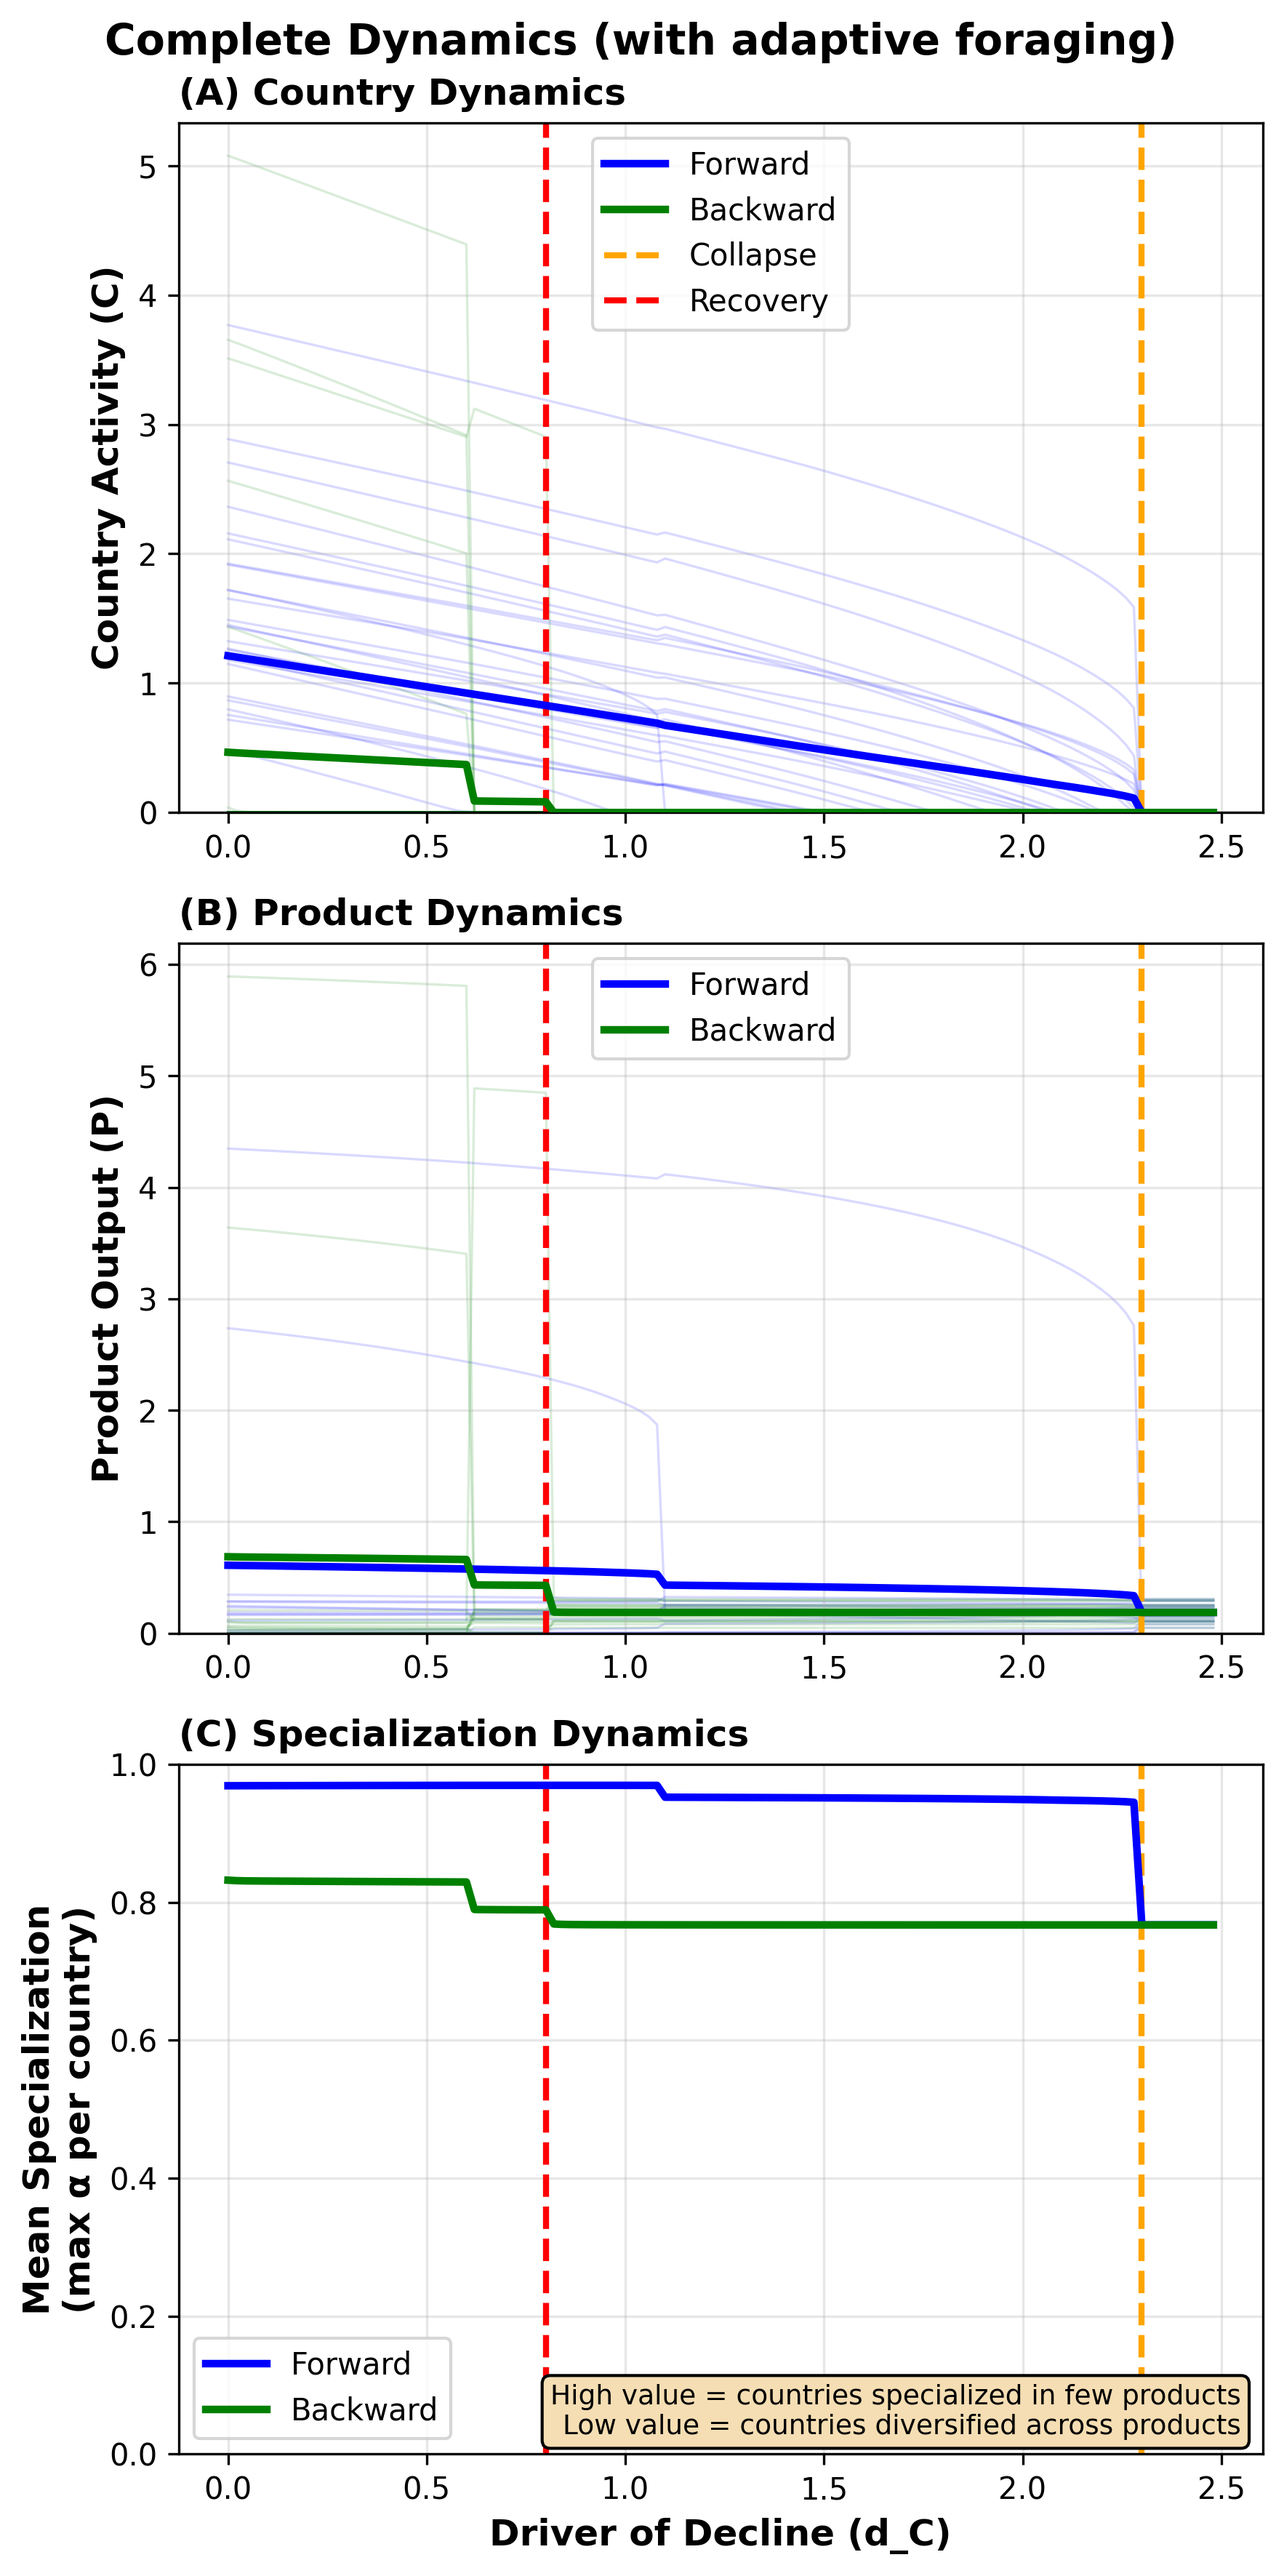
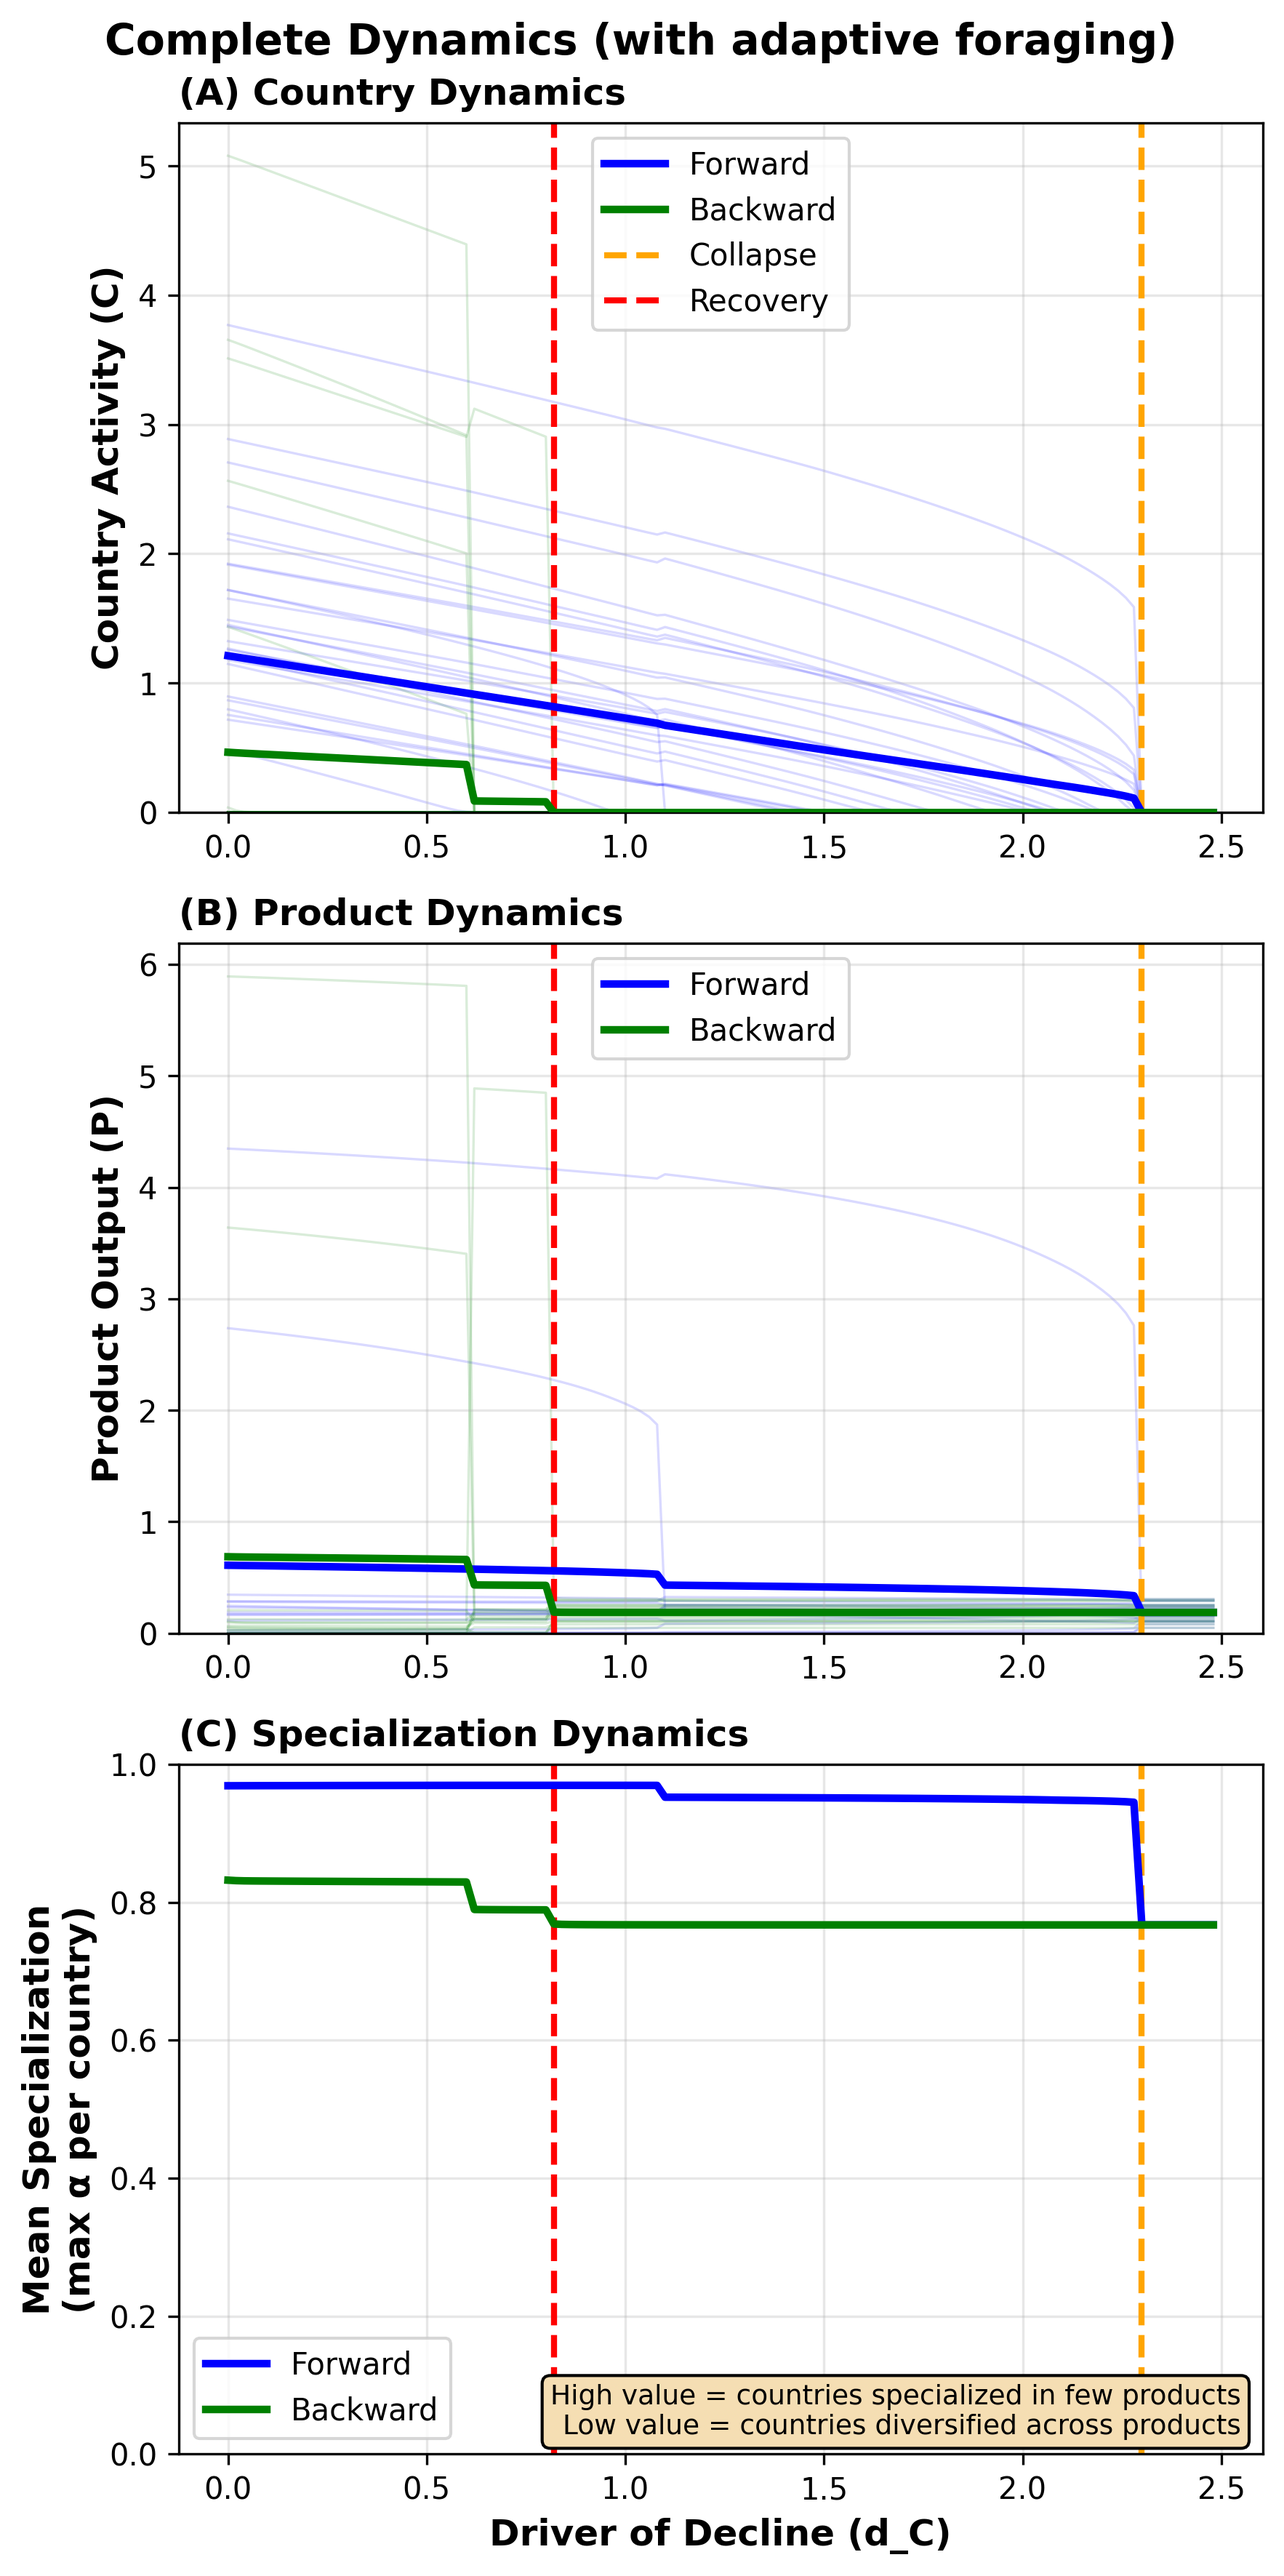
minor plotting adjustment

Changed region(s): [[0.4049, 0.0311, 0.436, 0.3106], [0.4049, 0.6832, 0.436, 0.9317], [0.4049, 0.3727, 0.436, 0.6211]]

diff --git a/base_model.py b/base_model.py
@@ -3,8 +3,8 @@ BaseModel: product-country model adapted from
 the original AdaptiveModel (Terpstra 2022, https://github.com/TerpstraS/pollcomm.git).
 
 Variable mapping  (from original):
-Plants            →  Products  (SP = 15, index 0..SP-1  in state vector)
-Pollinators       →  Countries (SC = 35, index SP..SP+SC-1 in state vector)
+Plants       →  Products  (SP = 15, index 0..SP-1  in state vector)
+Pollinators  →  Countries (SC = 35, index SP..SP+SC-1 in state vector)
 
 The find_critical_points method is a direct port of experiments.hysteresis().
 """
@@ -55,10 +55,10 @@ class BaseModel:
         self.is_feasible = None
 
         # Solution storage
-        self.t         = None
-        self.y         = None        # Shape (SP+SC, n_timepoints) — P and C, NO alpha
-        self.y_partial = None        # Shape (SC*SP, n_timepoints_partial) — alpha only
-        self.y_all_end = None        # Full state [P, C, alpha] at final timepoint
+        self.t = None
+        self.y = None # Shape (SP+SC, n_timepoints) — P and C, NO alpha
+        self.y_partial = None # Shape (SC*SP, n_timepoints_partial) — alpha only
+        self.y_all_end = None # Full state [P, C, alpha] at final timepoint
 
         self.generate_feasible_network()
 
@@ -72,13 +72,13 @@ class BaseModel:
         """
         N_c, N_p = self.SC, self.SP
         for _ in range(max_iter):
-            net  = np.zeros((N_c, N_p)) # Adjacency matrix (SC × SP)
+            net = np.zeros((N_c, N_p)) # Adjacency matrix (SC × SP)
             forb = np.zeros((N_c, N_p)) # Forbidden links matrix (SC × SP)
-            n_c  = int(self.connectance * N_c * N_p) # Number of links to create
-            n_f  = int(self.forbidden_links * N_c * N_p) # Number of forbidden links
+            n_c = int(self.connectance * N_c * N_p) # Number of links to create
+            n_f = int(self.forbidden_links * N_c * N_p) # Number of forbidden links
 
             sel = self.rng.choice(N_c * N_p, size=n_c + n_f, replace=False) # Randomly select positions for links and forbidden links
-            i_c  = self.rng.choice(sel, size=n_c, replace=False) # Indices for links
+            i_c = self.rng.choice(sel, size=n_c, replace=False) # Indices for links
             i_f = np.setdiff1d(sel, i_c) # Indices for forbidden links
 
             i_c = np.column_stack(np.unravel_index(i_c, (N_c, N_p))) # Convert flat indices to 2D indices
@@ -131,7 +131,7 @@ class BaseModel:
             rows, cols = np.nonzero(net)
             if len(rows) == 0:
                 break
-            idx  = self.rng.choice(len(rows)) # Randomly select a link to swap
+            idx = self.rng.choice(len(rows)) # Randomly select a link to swap
             a, b = int(rows[idx]), int(cols[idx])
 
             if self.rng.choice([0, 1]) == 0: # Randomly decide to swap a country or a product
@@ -263,8 +263,8 @@ class BaseModel:
         """
         Reset solution storage.
         """
-        self.t         = None
-        self.y         = None
+        self.t = None
+        self.y = None
         self.y_partial = None
         self.y_all_end = None
 
@@ -324,8 +324,8 @@ class BaseModel:
 
         State vector  z = [P (SP) | C (SC) | alpha (SC×SP, flattened)]
         """
-        P     = z[:self.SP]
-        C     = z[self.SP:self.N]
+        P = z[:self.SP]
+        C = z[self.SP:self.N]
         alpha = z[self.N:].reshape((self.SC, self.SP))
 
         # Compute phi
@@ -389,7 +389,7 @@ class BaseModel:
 
         # alpha occupies indices [SP+SC  …  SP+SC+SC*SP-1] in the state vector
         alpha_start = self.N
-        alpha_end   = y0.shape[0] - 1
+        alpha_end = y0.shape[0] - 1
 
         save_partial = {
             "ind":         (alpha_start, alpha_end),
@@ -432,7 +432,7 @@ class BaseModel:
         that same collapsed state.
         """
   
-        t_end  = int(1e4) # Time steps for initial step
+        t_end = int(1e4) # Time steps for initial step
         t_step = int(1e4) # Time steps for subsequent steps
 
         # Create d_C values for forward pass
@@ -442,8 +442,8 @@ class BaseModel:
         )
 
         # Storage lists
-        P_forward_list     = []
-        C_forward_list     = []
+        P_forward_list = []
+        C_forward_list = []
         alpha_forward_list = []
         dCs_forward_list   = []
 
@@ -518,25 +518,25 @@ class BaseModel:
         # Recovery: lowest d_C at which any country is alive again
         recovered_mask = (C_backward > thresh).any(axis=0)
         if recovered_mask.any():
-            rec_idx = np.argmax(C_backward > thresh, axis=0)[recovered_mask].min() # Get the index of the first occurrence of recovery for each country, then take the min to get the first recovery
+            rec_idx = np.argmax(C_backward > thresh, axis=0)[recovered_mask].min() - 1 # Get the index of the first occurrence of recovery for each country, then take the min to get the first recovery (-1 for nice plotting)
             d_recovery = float(dCs_backward[rec_idx])
         else:
             d_recovery = d_C_min
 
         return {
-            "dCs":         dCs_forward,
+            "dCs": dCs_forward,
             "is_feasible": is_feasible,
-            "d_collapse":  d_collapse,
-            "d_recovery":  d_recovery,
+            "d_collapse": d_collapse,
+            "d_recovery": d_recovery,
             # Forward
-            "d_C_forward":   dCs_forward,
-            "C_forward":     C_forward,
-            "P_forward":     P_forward,
+            "d_C_forward": dCs_forward,
+            "C_forward": C_forward,
+            "P_forward": P_forward,
             "alpha_forward": alpha_forward,
             # Backward
-            "d_C_backward":   dCs_backward,
-            "C_backward":     C_backward,
-            "P_backward":     P_backward,
+            "d_C_backward": dCs_backward,
+            "C_backward": C_backward,
+            "P_backward": P_backward,
             "alpha_backward": alpha_backward,
         }
 
@@ -565,8 +565,8 @@ def _nestedness_fast(network):
     nest_p = 0.0 # Same for product nestedness
     for i in range(N_p - 1):
         for j in range(i + 1, N_p):
-            ni  = network[:, i].sum()
-            nj  = network[:, j].sum()
+            ni = network[:, i].sum()
+            nj = network[:, j].sum()
             nij = 0
             for k in range(N_c):
                 if network[k, i] == 1 and network[k, j] == 1:
